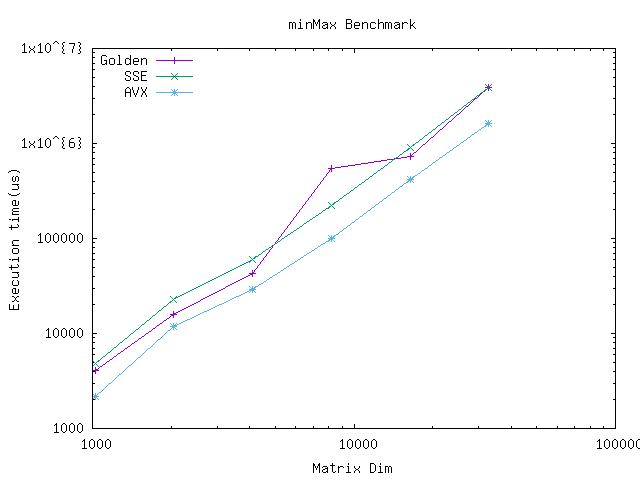
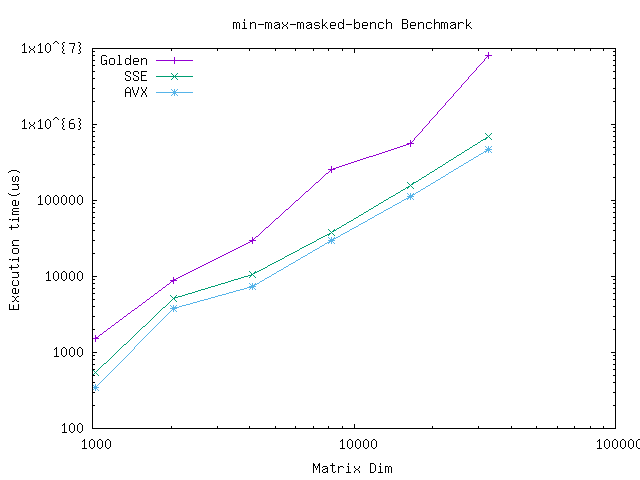
nimalan/maneesh: Add SIMD version in CASA benchmark

diff --git a/include/ArrayMathOpt.hpp b/include/ArrayMathOpt.hpp
@@ -1,10 +1,18 @@
 #pragma once
 #include <casacore/casa/Arrays.h>
+#include <climits>
 
 using casacore::Array;
 using casacore::ArrayConformanceError;
 using casacore::ArrayError;
 using casacore::IPosition;
+
+#ifdef __AVX__
+#include <emmintrin.h>
+#include <immintrin.h>
+#include <smmintrin.h>
+#include <xmmintrin.h>
+#endif
 
 template <typename T, typename Alloc>
 void minMaxMaskedParallel(T &minVal, T &maxVal, IPosition &minPos,
@@ -54,6 +62,215 @@ void minMaxMaskedParallel(T &minVal, T &maxVal, IPosition &minPos,
     typename Array<T, Alloc>::const_iterator witer = weight.begin();
     for (size_t i = 0; i < n; ++i, ++iter, ++witer) {
       T tmp = *iter * *witer;
+      if (tmp < minv) {
+        minv = tmp;
+        minp = i;
+      } else if (tmp > maxv) {
+        maxv = tmp;
+        maxp = i;
+      }
+    }
+  }
+  minPos.resize(array.ndim());
+  maxPos.resize(array.ndim());
+  minPos = toIPositionInArray(minp, array.shape());
+  maxPos = toIPositionInArray(maxp, array.shape());
+  minVal = minv;
+  maxVal = maxv;
+}
+
+#ifdef __AVX__
+inline void minMaxAVX(const float *arr, const float *weight, size_t N, float &min,
+                      size_t &minPos, float &max, size_t &maxPos) {
+
+  const int simd_width = 8;
+  __m256 arr_r = _mm256_loadu_ps(arr);
+  __m256 weight_r = _mm256_loadu_ps(weight);
+  arr_r = _mm256_mul_ps(arr_r, weight_r);
+  __m256 max_r = arr_r;
+  __m256 min_r = arr_r;
+
+  __m256i idx_r = _mm256_setr_epi32(0, 1, 2, 3, 4, 5, 6, 7);
+
+  __m256i min_pos_r = idx_r;
+  __m256i max_pos_r = idx_r;
+
+  __m256i inc = _mm256_set1_epi32(simd_width);
+
+  size_t quot = N / simd_width;
+  size_t limit = quot * simd_width;
+
+  for (size_t i = simd_width; i < limit; i += simd_width) {
+    idx_r = _mm256_add_epi32(idx_r, inc);
+    arr_r = _mm256_loadu_ps(arr + i);
+    weight_r = _mm256_loadu_ps(weight + i);
+    arr_r = _mm256_mul_ps(arr_r, weight_r);
+
+    // _CMP_LT_OS
+    __m256i min_mask =
+        _mm256_castps_si256(_mm256_cmp_ps(arr_r, min_r, _CMP_LT_OQ));
+    __m256i max_mask =
+        _mm256_castps_si256(_mm256_cmp_ps(arr_r, max_r, _CMP_GT_OQ));
+
+    min_r = _mm256_min_ps(min_r, arr_r);
+    min_pos_r = _mm256_blendv_epi8(min_pos_r, idx_r, min_mask);
+
+    max_r = _mm256_max_ps(max_r, arr_r);
+    max_pos_r = _mm256_blendv_epi8(max_pos_r, idx_r, max_mask);
+  }
+
+  // Unload from vector register and reduce
+  float max_tmp[simd_width];
+  float min_tmp[simd_width];
+
+  uint32_t max_pos_temp[simd_width];
+  uint32_t min_pos_temp[simd_width];
+
+  _mm256_storeu_ps(min_tmp, min_r);
+  _mm256_storeu_si256((__m256i_u *)min_pos_temp, min_pos_r);
+
+  _mm256_storeu_ps(max_tmp, max_r);
+  _mm256_storeu_si256((__m256i_u *)max_pos_temp, max_pos_r);
+
+  max = max_tmp[0];
+  maxPos = max_pos_temp[0];
+  min = min_tmp[0];
+  minPos = min_pos_temp[0];
+
+  for (int i = 1; i < simd_width; i++) {
+    if (max_tmp[i] > max) {
+      max = max_tmp[i];
+      maxPos = max_pos_temp[i];
+    } else if (max_tmp[i] == max) {
+      maxPos = std::min(maxPos, size_t(max_pos_temp[i]));
+    }
+    if (min_tmp[i] < min) {
+      min = min_tmp[i];
+      minPos = min_pos_temp[i];
+    } else if (min_tmp[i] == min) {
+      minPos = std::min(minPos, size_t(min_pos_temp[i]));
+    }
+  }
+
+  // Min max for reminder
+  for (size_t i = limit; i < N; i++) {
+    float val = arr[i] * weight[i];
+    if (max < val) {
+      max = val;
+      maxPos = i;
+    }
+    if (min > val) {
+      min = val;
+      minPos = i;
+    }
+  }
+}
+#endif
+
+template <typename T, typename Alloc>
+void minMaxMaskedSIMD(T &minVal, T &maxVal, IPosition &minPos,
+                      IPosition &maxPos, const Array<T, Alloc> &array,
+                      const Array<T, Alloc> &weight) {
+  size_t n = array.nelements();
+  if (n == 0) {
+    throw(ArrayError("void minMax(T &min, T &max, IPosition &minPos,"
+                     "IPosition &maxPos, const Array<T, Alloc> &array) - "
+                     "const Array<T, Alloc> &weight) - "
+                     "Array has no elements"));
+  }
+  if (!array.shape().isEqual(weight.shape())) {
+    throw(ArrayConformanceError("void minMaxMasked(T &min, T &max,"
+                                "IPosition &minPos, IPosition &maxPos, "
+                                "const Array<T, Alloc> &array, "
+                                "const Array<T, Alloc> &weight) - array "
+                                "and weight do not have the same shape()"));
+  }
+  size_t minp = 0;
+  size_t maxp = 0;
+  T minv = array.data()[0] * weight.data()[0];
+  T maxv = minv;
+  if (array.contiguousStorage() && weight.contiguousStorage()) {
+    typename Array<T, Alloc>::const_contiter iter = array.cbegin();
+    typename Array<T, Alloc>::const_contiter witer = weight.cbegin();
+    for (size_t i = 0; i < n; ++i, ++iter, ++witer) {
+      T tmp = *iter * *witer;
+      if (tmp < minv) {
+        minv = tmp;
+        minp = i;
+      } else if (tmp > maxv) {
+        maxv = tmp;
+        maxp = i;
+      }
+    }
+  } else {
+    typename Array<T, Alloc>::const_iterator iter = array.begin();
+    typename Array<T, Alloc>::const_iterator witer = weight.begin();
+    for (size_t i = 0; i < n; ++i, ++iter, ++witer) {
+      T tmp = *iter * *witer;
+      if (tmp < minv) {
+        minv = tmp;
+        minp = i;
+      } else if (tmp > maxv) {
+        maxv = tmp;
+        maxp = i;
+      }
+    }
+  }
+  minPos.resize(array.ndim());
+  maxPos.resize(array.ndim());
+  minPos = toIPositionInArray(minp, array.shape());
+  maxPos = toIPositionInArray(maxp, array.shape());
+  minVal = minv;
+  maxVal = maxv;
+}
+
+template <typename Alloc>
+void minMaxMaskedSIMD(float &minVal, float &maxVal, IPosition &minPos,
+                      IPosition &maxPos, const Array<float, Alloc> &array,
+                      const Array<float, Alloc> &weight) {
+  size_t n = array.nelements();
+  if (n == 0) {
+    throw(ArrayError("void minMax(float &min, float &max, IPosition &minPos,"
+                     "IPosition &maxPos, const Array<float, Alloc> &array) - "
+                     "const Array<float, Alloc> &weight) - "
+                     "Array has no elements"));
+  }
+  if (!array.shape().isEqual(weight.shape())) {
+    throw(ArrayConformanceError("void minMaxMasked(float &min, float &max,"
+                                "IPosition &minPos, IPosition &maxPos, "
+                                "const Array<float, Alloc> &array, "
+                                "const Array<float, Alloc> &weight) - array "
+                                "and weight do not have the same shape()"));
+  }
+  size_t minp = 0;
+  size_t maxp = 0;
+  float minv = array.data()[0] * weight.data()[0];
+  float maxv = minv;
+  if (array.contiguousStorage() && weight.contiguousStorage() && n < INT_MAX) {
+
+#ifdef __AVX__
+    const float *arrRaw = array.data();
+    const float *weightRaw = weight.data();
+    minMaxAVX(arrRaw, weightRaw, n, minv, minp, maxv, maxp);
+#else
+    typename Array<float, Alloc>::const_contiter iter = array.cbegin();
+    typename Array<float, Alloc>::const_contiter witer = weight.cbegin();
+    for (size_t i = 0; i < n; ++i, ++iter, ++witer) {
+      float tmp = *iter * *witer;
+      if (tmp < minv) {
+        minv = tmp;
+        minp = i;
+      } else if (tmp > maxv) {
+        maxv = tmp;
+        maxp = i;
+      }
+    }
+#endif
+  } else {
+    typename Array<float, Alloc>::const_iterator iter = array.begin();
+    typename Array<float, Alloc>::const_iterator witer = weight.begin();
+    for (size_t i = 0; i < n; ++i, ++iter, ++witer) {
+      float tmp = *iter * *witer;
       if (tmp < minv) {
         minv = tmp;
         minp = i;

diff --git a/src/casa-bench.cpp b/src/casa-bench.cpp
@@ -34,10 +34,16 @@ int main() {
   stop_watch.start_timer();
   minMaxMaskedParallel(min, max, minPos, maxPos, matrix, weight);
   stop_watch.stop_timer();
+  
+  duration = stop_watch.time_elapsed();
+  std::cout << "Time taken for openmp minMaxMasked: " << duration << " ms" << std::endl;
+
+  stop_watch.start_timer();
+  minMaxMaskedSIMD(min, max, minPos, maxPos, matrix, weight);
+  stop_watch.stop_timer();
 
   duration = stop_watch.time_elapsed();
-
-  std::cout << "Time taken for openmp minMaxMasked: " << duration << " ms" << std::endl;
+  std::cout << "Time taken for SIMD minMaxMasked: " << duration << " ms" << std::endl;
 
   return 0;
 

diff --git a/README.md b/README.md
@@ -17,3 +17,7 @@ brew tap ska-sa/tap
 1. Min Max SIMD
 
 ![Stats](./stat/min-max-bench-performance.png)
+
+2. Min Max Masked SIMD
+
+![Stats](./stat/min-max-masked-bench-performance.png)
